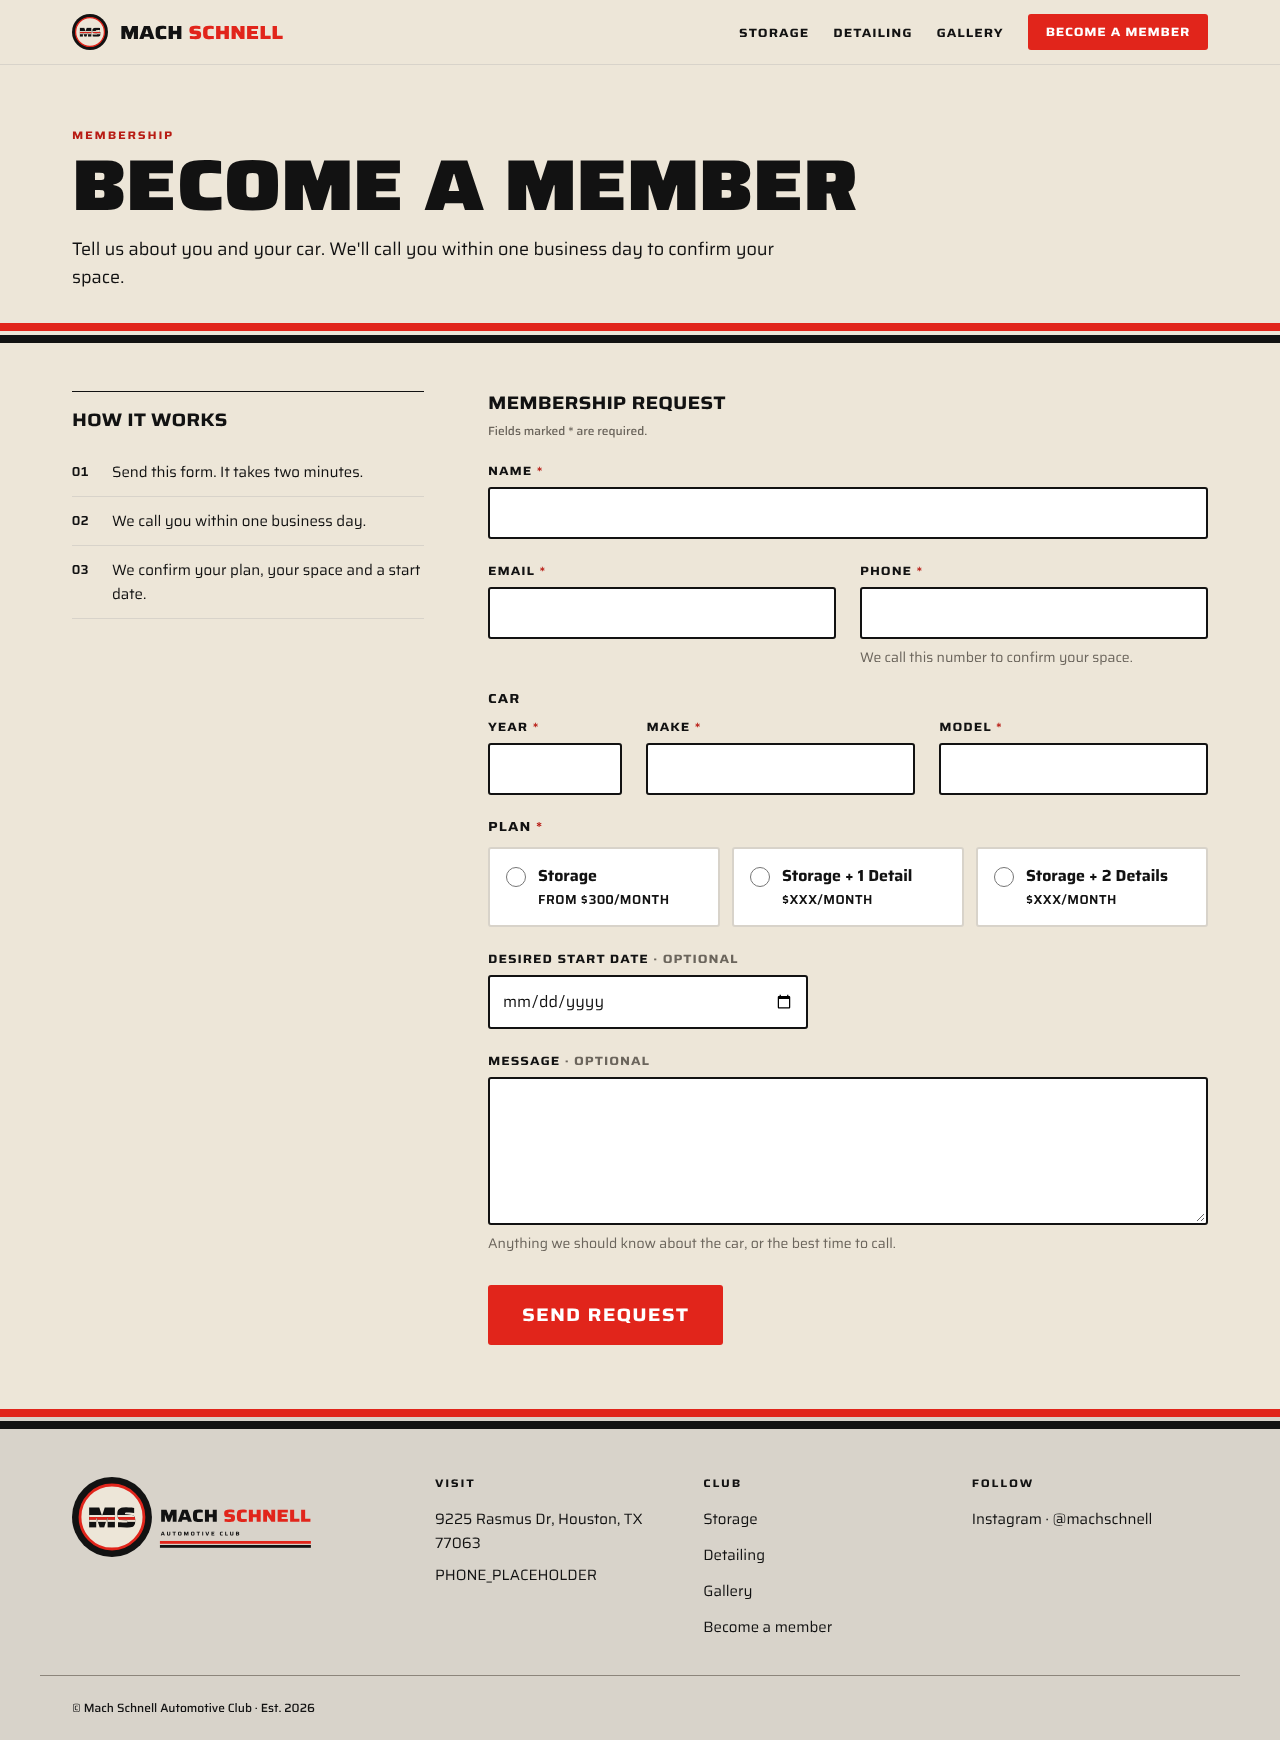
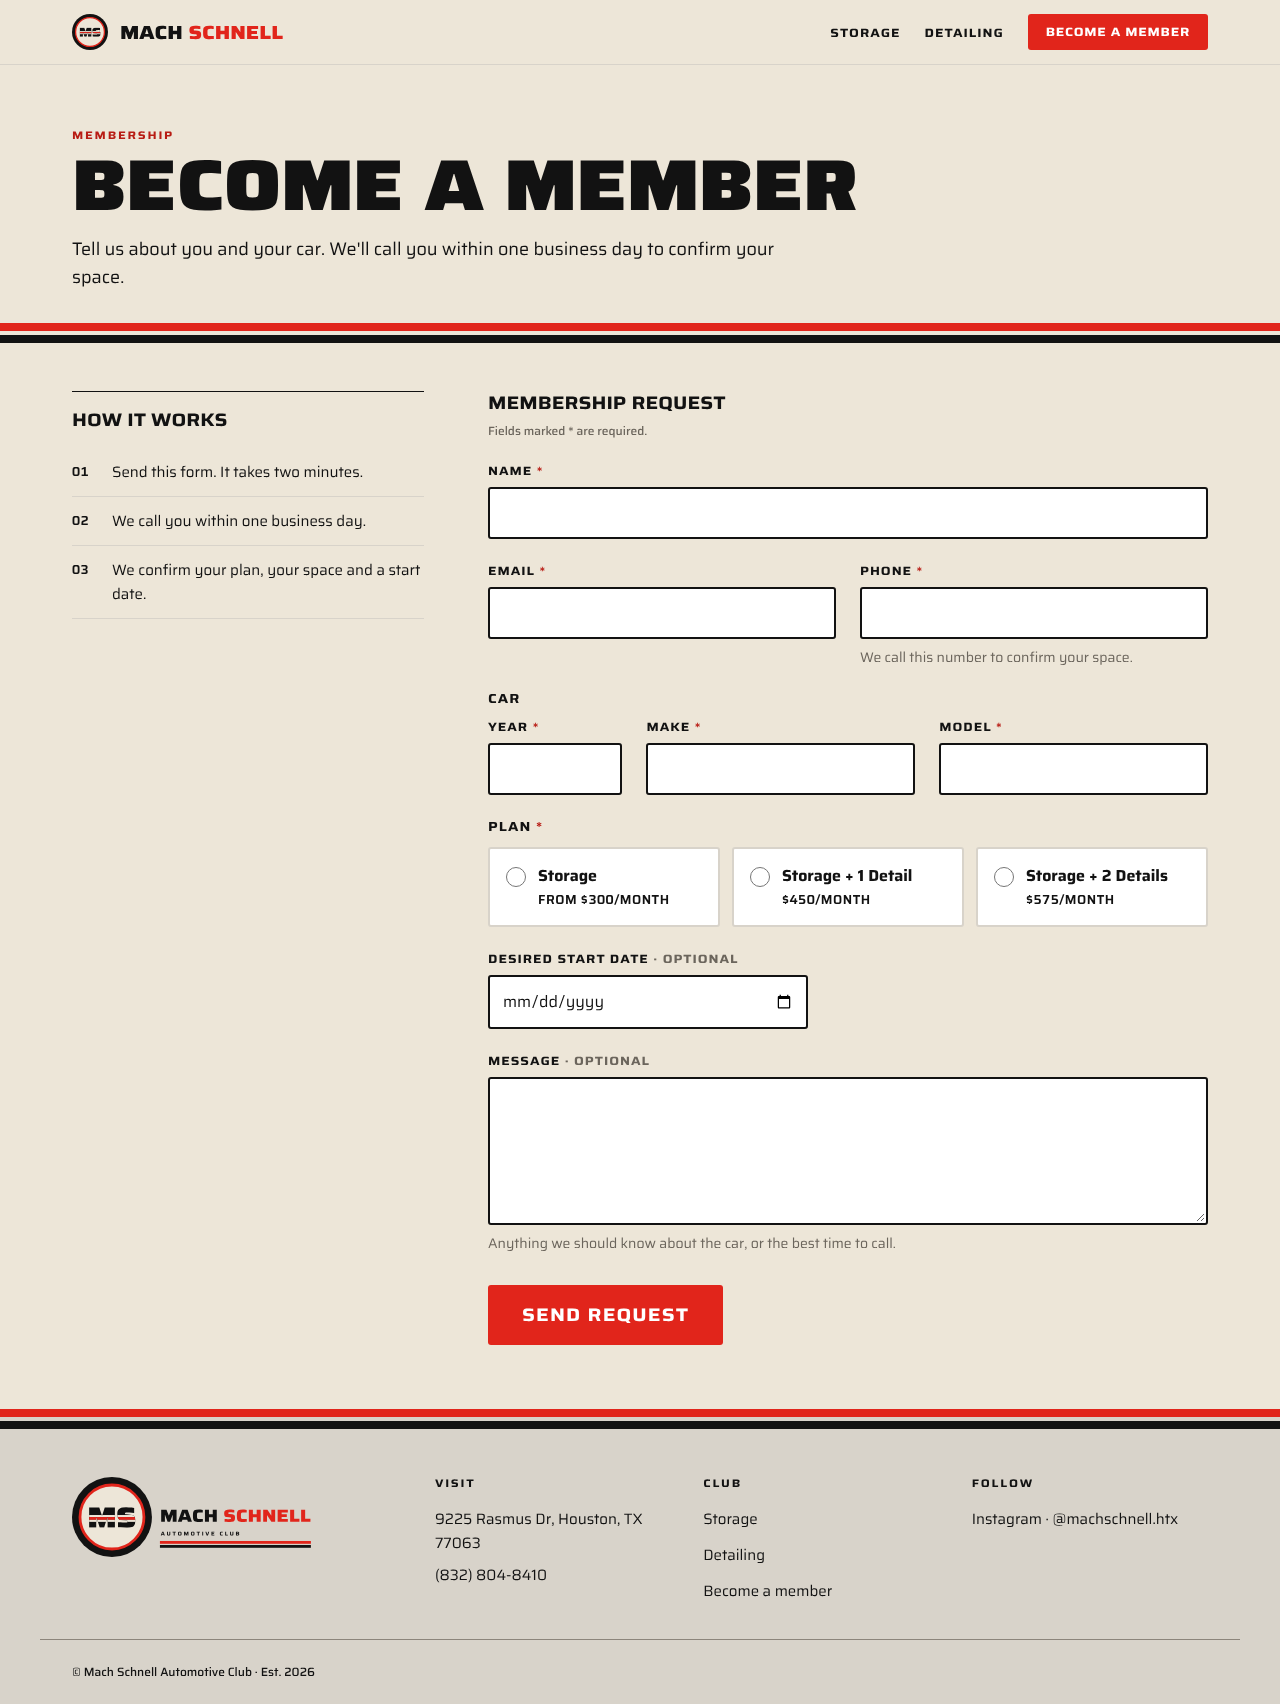
Hide photo spots until real photos exist
PhotoSlot renders nothing without a src, and the pages drop the wrappers
around empty photos so layouts close up. The Gallery page, its nav link,
the home gallery strip and the sitemap entry appear automatically once a
gallery photo has a file; until then /gallery is a 404. Removes the
placeholder styles and refreshes the review screenshots.

Claude-Session: https://claude.ai/code/session_01TCc3W7DLDTBFQ16dSphGX5

diff --git a/app/page.tsx b/app/page.tsx
@@ -13,6 +13,7 @@ import { SectionHead } from "@/components/SectionHead";
 import { StripeRule } from "@/components/StripeRule";
 import { TextLink } from "@/components/TextLink";
 import { Ticker } from "@/components/Ticker";
+import { galleryEnabled, galleryPhotos, hasPhoto } from "@/lib/photos";
 import styles from "./home.module.css";
 
 const home = site.home;
@@ -99,9 +100,11 @@ export default function Home() {
           </div>
         </div>
 
-        <div className={`container ${styles.heroPhoto}`}>
-          <PhotoSlot photo={home.heroPhoto} ratio="16/9" sizes={FULL} priority />
-        </div>
+        {hasPhoto(home.heroPhoto) && (
+          <div className={`container ${styles.heroPhoto}`}>
+            <PhotoSlot photo={home.heroPhoto} ratio="16/9" sizes={FULL} priority />
+          </div>
+        )}
       </section>
 
       <Ticker />
@@ -171,36 +174,42 @@ export default function Home() {
         <div className="container">
           <SectionHead id="the-space" kicker={home.space.kicker} title={<Lines text={home.space.title} />} />
           <AmenityList />
-          <div className={`grid-2 ${styles.after}`}>
-            {home.space.photos.map((p) => (
-              <PhotoSlot key={p.caption} photo={p} ratio="4/3" sizes={HALF} />
-            ))}
+          {home.space.photos.some(hasPhoto) && (
+            <div className={`grid-2 ${styles.after}`}>
+              {home.space.photos.filter(hasPhoto).map((p) => (
+                <PhotoSlot key={p.caption} photo={p} ratio="4/3" sizes={HALF} />
+              ))}
+            </div>
+          )}
+        </div>
+      </section>
+
+      {galleryEnabled && (
+        <>
+          <div className="container">
+            <StripeRule bleed />
           </div>
-        </div>
-      </section>
 
-      <div className="container">
-        <StripeRule bleed />
-      </div>
-
-      {/* 6 · Gallery strip */}
-      <section className="section" aria-labelledby="gallery-strip">
-        <div className="container">
-          <SectionHead
-            id="gallery-strip"
-            kicker={home.galleryStrip.kicker}
-            title={<Lines text={home.galleryStrip.title} />}
-            aside={<TextLink href={home.galleryStrip.link.href}>{home.galleryStrip.link.label}</TextLink>}
-          />
-          <ul role="list" className={styles.gallery}>
-            {site.photos.slice(0, 6).map((p) => (
-              <li key={p.caption}>
-                <PhotoSlot photo={p} ratio="1/1" sizes={GALLERY} />
-              </li>
-            ))}
-          </ul>
-        </div>
-      </section>
+          {/* 6 · Gallery strip */}
+          <section className="section" aria-labelledby="gallery-strip">
+            <div className="container">
+              <SectionHead
+                id="gallery-strip"
+                kicker={home.galleryStrip.kicker}
+                title={<Lines text={home.galleryStrip.title} />}
+                aside={<TextLink href={home.galleryStrip.link.href}>{home.galleryStrip.link.label}</TextLink>}
+              />
+              <ul role="list" className={styles.gallery}>
+                {galleryPhotos.slice(0, 6).map((p) => (
+                  <li key={p.caption}>
+                    <PhotoSlot photo={p} ratio="1/1" sizes={GALLERY} />
+                  </li>
+                ))}
+              </ul>
+            </div>
+          </section>
+        </>
+      )}
 
       {/* 7 · Location */}
       <section className={`section ${styles.ruled}`} aria-labelledby="location">

diff --git a/app/storage/page.tsx b/app/storage/page.tsx
@@ -8,6 +8,7 @@ import { PhotoSlot } from "@/components/PhotoSlot";
 import { PlanCard } from "@/components/PlanCard";
 import { SectionHead } from "@/components/SectionHead";
 import { StripeRule } from "@/components/StripeRule";
+import { hasPhoto } from "@/lib/photos";
 import styles from "./storage.module.css";
 
 const page = site.storage;
@@ -34,7 +35,7 @@ export default function StoragePage() {
     <>
       <section className="section" aria-labelledby="storage-title">
         <div className="container">
-          <div className={`grid-2 ${styles.intro}`}>
+          <div className={hasPhoto(page.introPhoto) ? `grid-2 ${styles.intro}` : styles.intro}>
             <div className={styles.introText}>
               <span className="kicker">{page.kicker}</span>
               <h1 id="storage-title" className="display-xl lines">
@@ -50,7 +51,7 @@ export default function StoragePage() {
                 </Button>
               </div>
             </div>
-            <PhotoSlot photo={page.introPhoto} ratio="4/3" sizes={HALF} priority />
+            {hasPhoto(page.introPhoto) && <PhotoSlot photo={page.introPhoto} ratio="4/3" sizes={HALF} priority />}
           </div>
 
           <div className={styles.amenities}>
@@ -60,9 +61,11 @@ export default function StoragePage() {
         </div>
       </section>
 
-      <div className={`container ${styles.photoBand}`}>
-        <PhotoSlot photo={page.betweenPhotos[0]} ratio="16/9" sizes={FULL} />
-      </div>
+      {hasPhoto(page.betweenPhotos[0]) && (
+        <div className={`container ${styles.photoBand}`}>
+          <PhotoSlot photo={page.betweenPhotos[0]} ratio="16/9" sizes={FULL} />
+        </div>
+      )}
 
       <StripeRule bleed />
 
@@ -77,9 +80,11 @@ export default function StoragePage() {
         </div>
       </section>
 
-      <div className={`container ${styles.photoBand}`}>
-        <PhotoSlot photo={page.betweenPhotos[1]} ratio="16/9" sizes={FULL} />
-      </div>
+      {hasPhoto(page.betweenPhotos[1]) && (
+        <div className={`container ${styles.photoBand}`}>
+          <PhotoSlot photo={page.betweenPhotos[1]} ratio="16/9" sizes={FULL} />
+        </div>
+      )}
 
       <StripeRule bleed />
 

diff --git a/app/detailing/page.tsx b/app/detailing/page.tsx
@@ -6,6 +6,7 @@ import { PhoneCTA } from "@/components/PhoneCTA";
 import { PhotoSlot } from "@/components/PhotoSlot";
 import { SectionHead } from "@/components/SectionHead";
 import { TextLink } from "@/components/TextLink";
+import { hasPhoto } from "@/lib/photos";
 import styles from "./detailing.module.css";
 
 const page = site.detailingPage;
@@ -46,9 +47,11 @@ export default function DetailingPage() {
         </div>
       </section>
 
-      <div className={`container ${styles.photoBand}`}>
-        <PhotoSlot photo={page.photos[0]} ratio="16/9" sizes={FULL} />
-      </div>
+      {hasPhoto(page.photos[0]) && (
+        <div className={`container ${styles.photoBand}`}>
+          <PhotoSlot photo={page.photos[0]} ratio="16/9" sizes={FULL} />
+        </div>
+      )}
 
       <section className="section" data-theme="night" aria-labelledby="packages-title">
         <div className="container">
@@ -66,12 +69,15 @@ export default function DetailingPage() {
         </div>
       </section>
 
-      <div className={`container ${styles.photoPair}`}>
-        <div className="grid-2">
-          <PhotoSlot photo={page.photos[1]} ratio="4/3" sizes={HALF} />
-          <PhotoSlot photo={page.photos[2]} ratio="4/3" sizes={HALF} />
+      {page.photos.slice(1).some(hasPhoto) && (
+        <div className={`container ${styles.photoPair}`}>
+          <div className="grid-2">
+            {page.photos.slice(1).filter(hasPhoto).map((p) => (
+              <PhotoSlot key={p.caption} photo={p} ratio="4/3" sizes={HALF} />
+            ))}
+          </div>
         </div>
-      </div>
+      )}
 
       <section className="section">
         <div className="container">

diff --git a/components/PhotoSlot.tsx b/components/PhotoSlot.tsx
@@ -1,6 +1,5 @@
 import Image from "next/image";
 import type { Photo } from "@/content/site";
-import { StripeRule } from "./StripeRule";
 
 export type Ratio = "16/9" | "4/3" | "1/1" | "3/4";
 
@@ -14,24 +13,12 @@ type Props = {
   className?: string;
 };
 
-/**
- * A photo at a fixed aspect ratio. When photo.src is empty it renders a labeled
- * placeholder: a dove box with the club stripe and "PHOTO · CAPTION".
- */
+/** A photo at a fixed aspect ratio. Renders nothing until photo.src is set in content/site.ts. */
 export function PhotoSlot({ photo, ratio = "4/3", sizes, priority = false, className }: Props) {
   const cls = ["ms-photo", className].filter(Boolean).join(" ");
   const style = { aspectRatio: ratio.replace("/", " / ") };
 
-  if (!photo.src) {
-    return (
-      <div className={`${cls} ms-photo-placeholder`} style={style} role="img" aria-label={photo.alt} data-theme="day">
-        <StripeRule className="ms-photo-stripe" />
-        <span className="ms-photo-label" aria-hidden="true">
-          Photo · {photo.caption}
-        </span>
-      </div>
-    );
-  }
+  if (!photo.src) return null;
 
   return (
     <div className={cls} style={style}>

diff --git a/content/site.ts b/content/site.ts
@@ -8,15 +8,16 @@
  * Search this file for "TODO:" to find every placeholder that still needs a real value.
  *
  * Photos: put the file in /public/photos/ and set `src` to "/photos/your-file.jpg".
- * Leave `src` empty ("") to show a labeled placeholder box instead.
+ * Leave `src` empty ("") and that photo spot is hidden; the layout closes up around it.
+ * The Gallery page, its nav link and the home gallery strip appear once one gallery photo has a file.
  */
 
 export type Photo = {
-  /** Path under /public, e.g. "/photos/storage-floor.jpg". Empty string shows a placeholder. */
+  /** Path under /public, e.g. "/photos/storage-floor.jpg". Empty string hides the photo. */
   src: string;
   /** Describes the photo for screen readers and search engines. Required. */
   alt: string;
-  /** Short label. Shown on the placeholder box, and under the photo in the gallery lightbox. */
+  /** Short label, shown under the photo in the gallery lightbox. */
   caption: string;
 };
 

diff --git a/app/components.css b/app/components.css
@@ -272,31 +272,6 @@
 .ms-photo img {
   border-radius: var(--radius-md);
 }
-.ms-photo-placeholder {
-  background: var(--dove);
-  color: var(--black);
-}
-.ms-photo-stripe {
-  position: absolute;
-  left: 0;
-  right: 0;
-  top: 34%;
-}
-.ms-photo-label {
-  position: absolute;
-  left: var(--space-4);
-  right: var(--space-4);
-  top: calc(34% + 2 * var(--stripe-weight) + var(--stripe-gap) + var(--space-4));
-  text-align: center;
-  font-family: var(--font-display), system-ui, sans-serif;
-  /* 1px over the kicker size so placeholder-only pages stay above the 12px legibility floor */
-  font-size: 12px;
-  line-height: 16px;
-  font-weight: 700;
-  letter-spacing: var(--type-kicker-tracking);
-  text-transform: uppercase;
-  color: var(--black);
-}
 
 /* ------------------------------------------------------------------ */
 /* Cards                                                               */

diff --git a/app/gallery/page.tsx b/app/gallery/page.tsx
@@ -1,4 +1,6 @@
 import type { Metadata } from "next";
+import { notFound } from "next/navigation";
+import { galleryEnabled, galleryPhotos } from "@/lib/photos";
 import { ogImages } from "@/lib/seo";
 import { site } from "@/content/site";
 import { Gallery } from "@/components/Gallery";
@@ -18,10 +20,11 @@ export const metadata: Metadata = {
 };
 
 export default function GalleryPage() {
+  if (!galleryEnabled) notFound();
   return (
     <div className={`container section ${styles.page}`}>
       <SectionHead as="h1" size="xl" kicker={site.gallery.kicker} title={site.gallery.title} lead={site.gallery.lead} />
-      <Gallery photos={site.photos} labels={site.gallery.lightbox} />
+      <Gallery photos={galleryPhotos} labels={site.gallery.lightbox} />
     </div>
   );
 }

diff --git a/app/sitemap.ts b/app/sitemap.ts
@@ -1,6 +1,7 @@
 import type { MetadataRoute } from "next";
 import { site } from "@/content/site";
 import { siteUrl } from "@/lib/url";
+import { galleryEnabled } from "@/lib/photos";
 
 type Entry = MetadataRoute.Sitemap[number];
 
@@ -18,8 +19,8 @@ export default function sitemap(): MetadataRoute.Sitemap {
     page("/storage", "monthly", 0.9),
     page("/detailing", "monthly", 0.9),
     page("/join", "yearly", 0.8),
-    page("/gallery", "monthly", 0.6),
   ];
+  if (galleryEnabled) entries.push(page("/gallery", "monthly", 0.6));
   if (site.events.enabled) entries.push(page(site.events.href, "weekly", 0.7));
   return entries;
 }

diff --git a/lib/nav.ts b/lib/nav.ts
@@ -1,8 +1,12 @@
 import { site } from "@/content/site";
+import { galleryEnabled } from "@/lib/photos";
 
-/** Links shown in the nav: the fixed list plus Events when it's enabled in content/site.ts. */
+/**
+ * Links shown in the nav: the fixed list (Gallery only once it has photos) plus Events
+ * when it's enabled in content/site.ts.
+ */
 export function navLinks() {
-  const links = [...site.nav];
+  const links = site.nav.filter((l) => l.href !== "/gallery" || galleryEnabled);
   if (site.events.enabled) links.push({ label: site.events.label, href: site.events.href });
   return links;
 }

diff --git a/lib/photos.ts b/lib/photos.ts
@@ -1,0 +1,10 @@
+import { site, type Photo } from "@/content/site";
+
+/** A photo is shown only once its file is set in content/site.ts. */
+export const hasPhoto = (p: Photo | undefined): p is Photo => Boolean(p?.src);
+
+/** Gallery photos that have a file. */
+export const galleryPhotos = site.photos.filter(hasPhoto);
+
+/** The gallery page, its nav link and the home strip appear once at least one photo has a file. */
+export const galleryEnabled = galleryPhotos.length > 0;

diff --git a/README.md b/README.md
@@ -72,7 +72,7 @@ Where things live in the file:
 
 ## Add photos
 
-No real photos exist yet. Every photo spot shows a labeled placeholder (a dove-gray box with the club stripe and a caption like `PHOTO · STORAGE FLOOR`) until it gets a real file.
+No real photos exist yet, so every photo spot is hidden and the pages close up around them. A photo appears as soon as its `src` is set. The **Gallery** page, its nav link and the gallery strip on the home page stay hidden until at least one gallery photo has a file; until then `/gallery` returns 404 and is left out of the sitemap.
 
 1. Put the image in `public/photos/` (JPG or WebP, at least 2000px wide for the hero, 1600px for others). Use simple lowercase file names: `storage-floor-wide.jpg`.
 2. In `content/site.ts`, find the matching entry and set `src`:
@@ -101,7 +101,7 @@ Prices, phone, Instagram and FAQ answers are all set. What is left:
 
 | Placeholder | Where | Current value |
 |---|---|---|
-| All photos | every `src: ""` | placeholder boxes |
+| All photos | every `src: ""` | hidden until set |
 
 Email is live: `mach-schnell.com` is verified in Resend and `RESEND_API_KEY` is set in Vercel.
 
@@ -164,7 +164,7 @@ screenshots/          Review screenshots of every page at 360px and 1280px
 
 ## Screenshots
 
-`screenshots/` holds each page at mobile (360px) and desktop (1280px), plus the open mobile menu, the gallery lightbox, and the membership form's error and success states. To regenerate them, build and start the site, then run the script. It uses a global Playwright install, which is a one-time setup:
+`screenshots/` holds each page at mobile (360px) and desktop (1280px). Gallery shots return once the gallery has photos. To regenerate them, build and start the site, then run the script. It uses a global Playwright install, which is a one-time setup:
 
 ```bash
 npm install -g playwright && npx playwright install chromium
